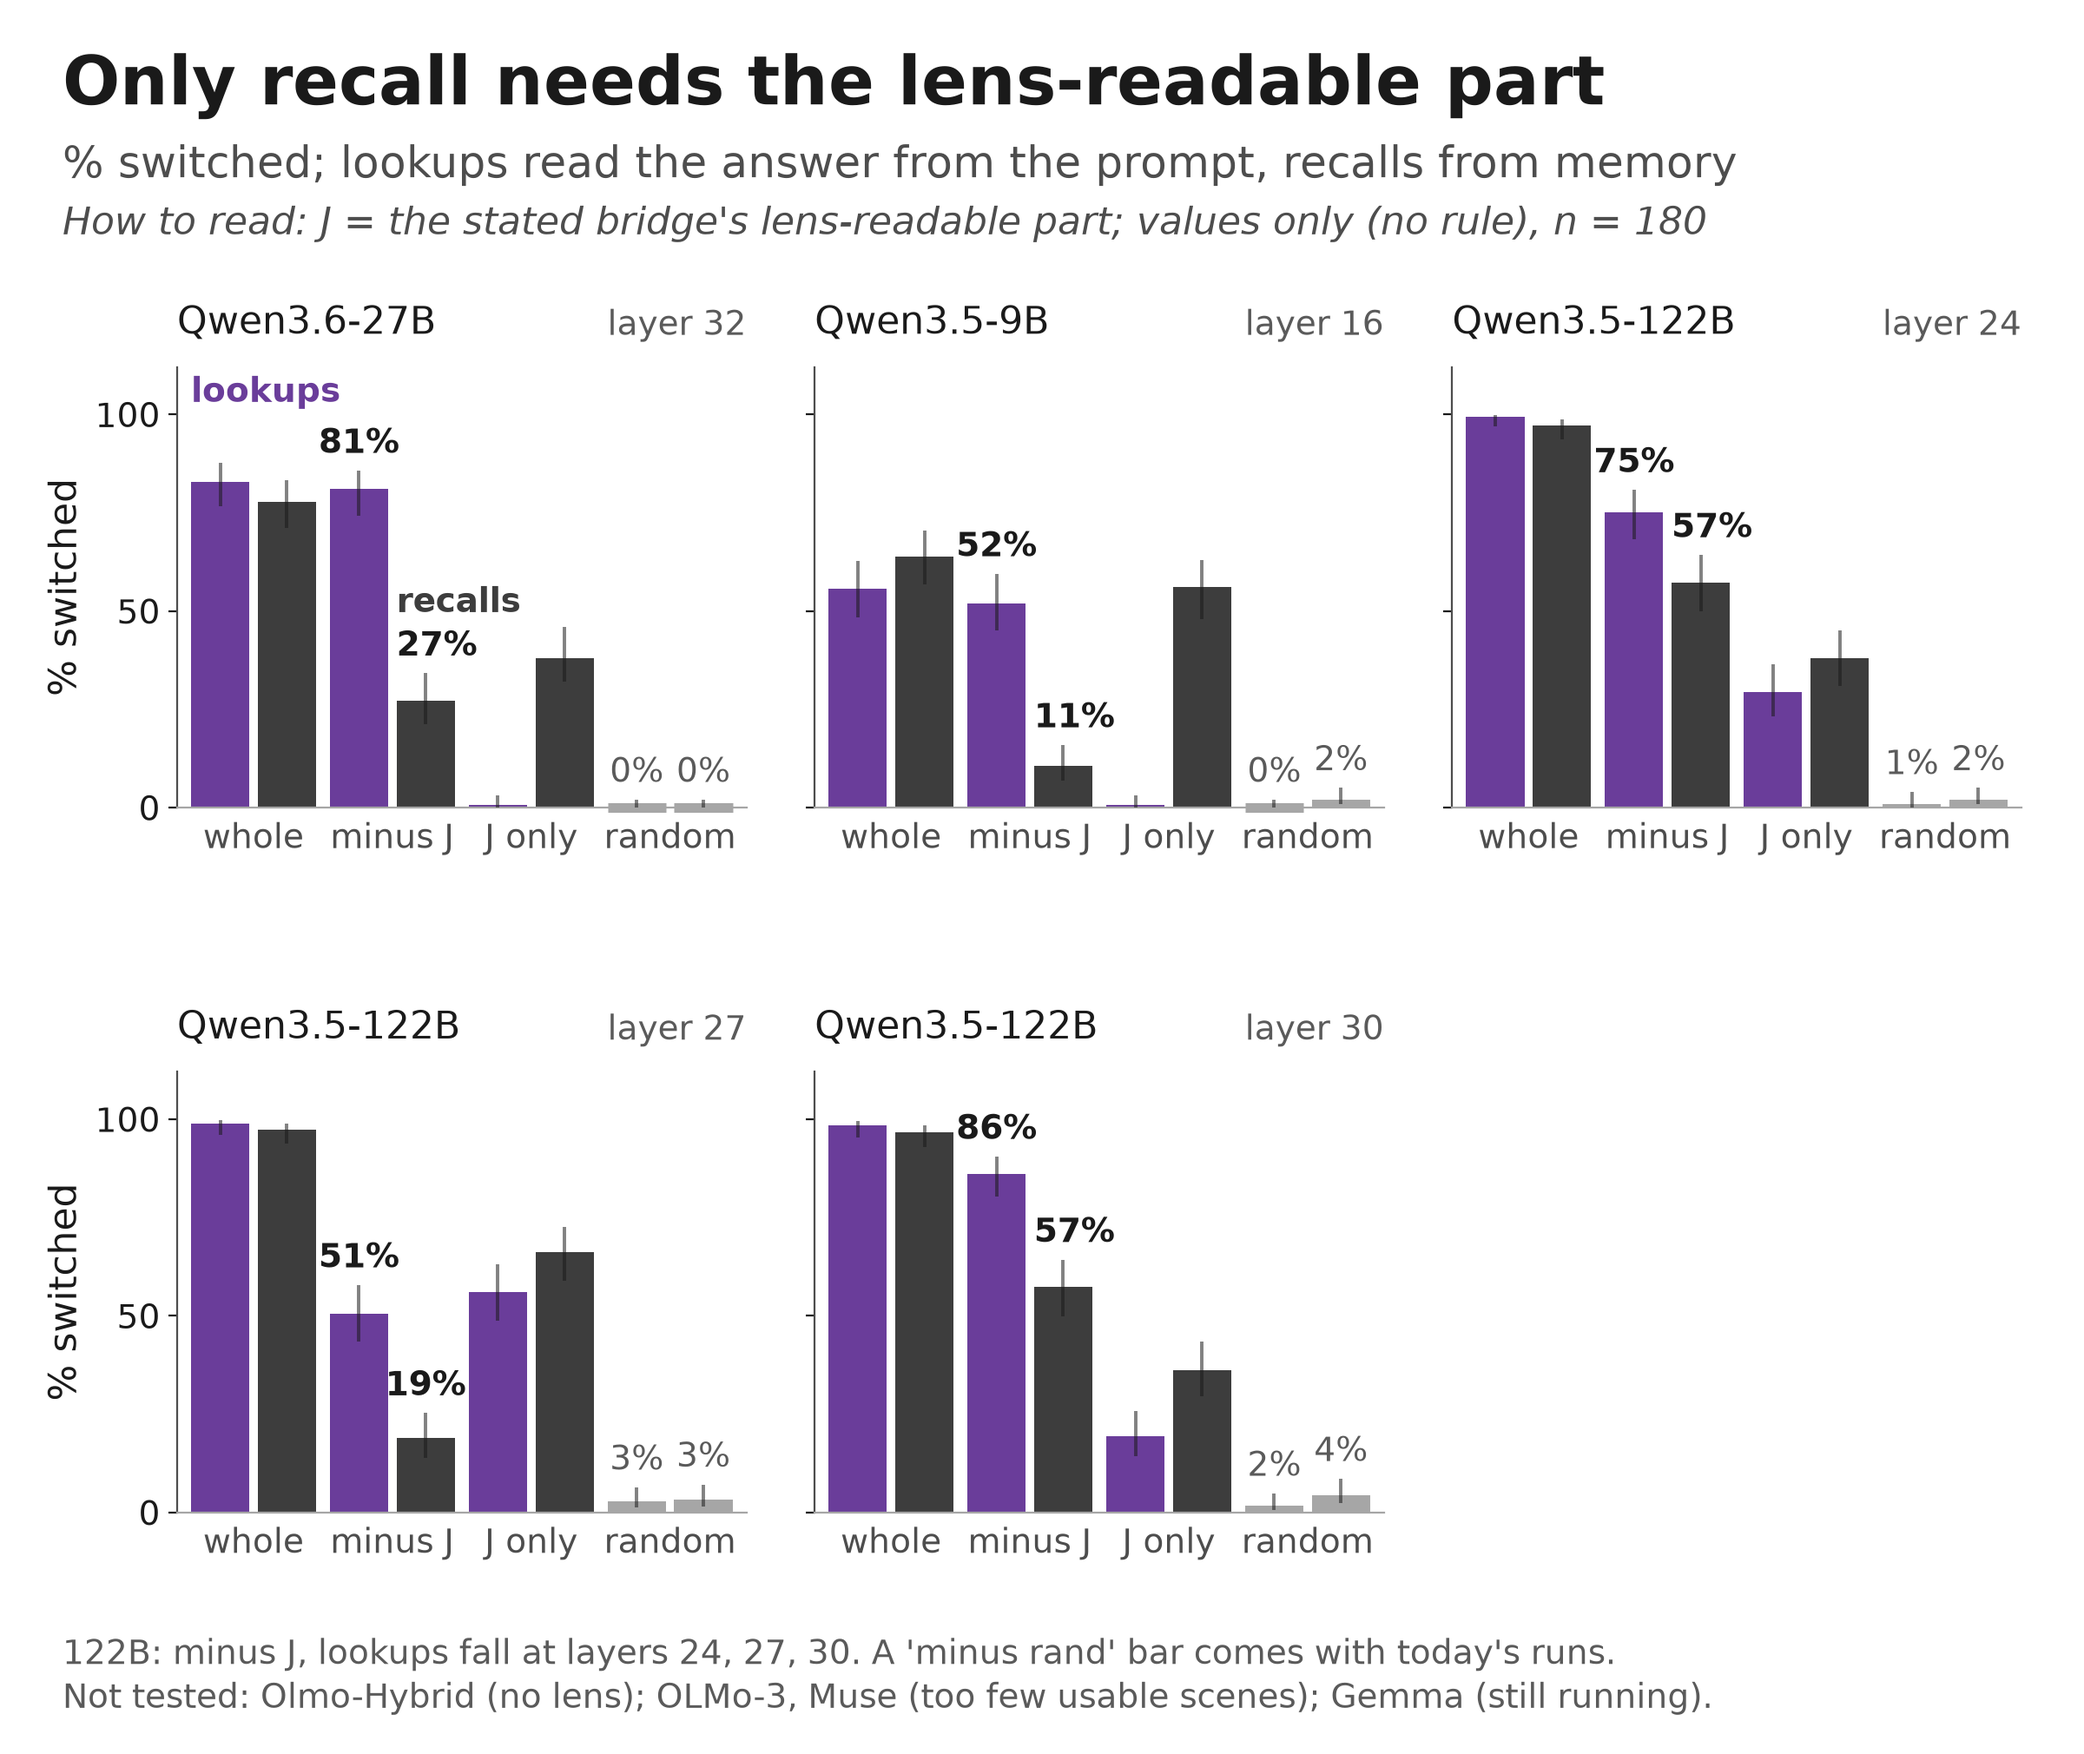
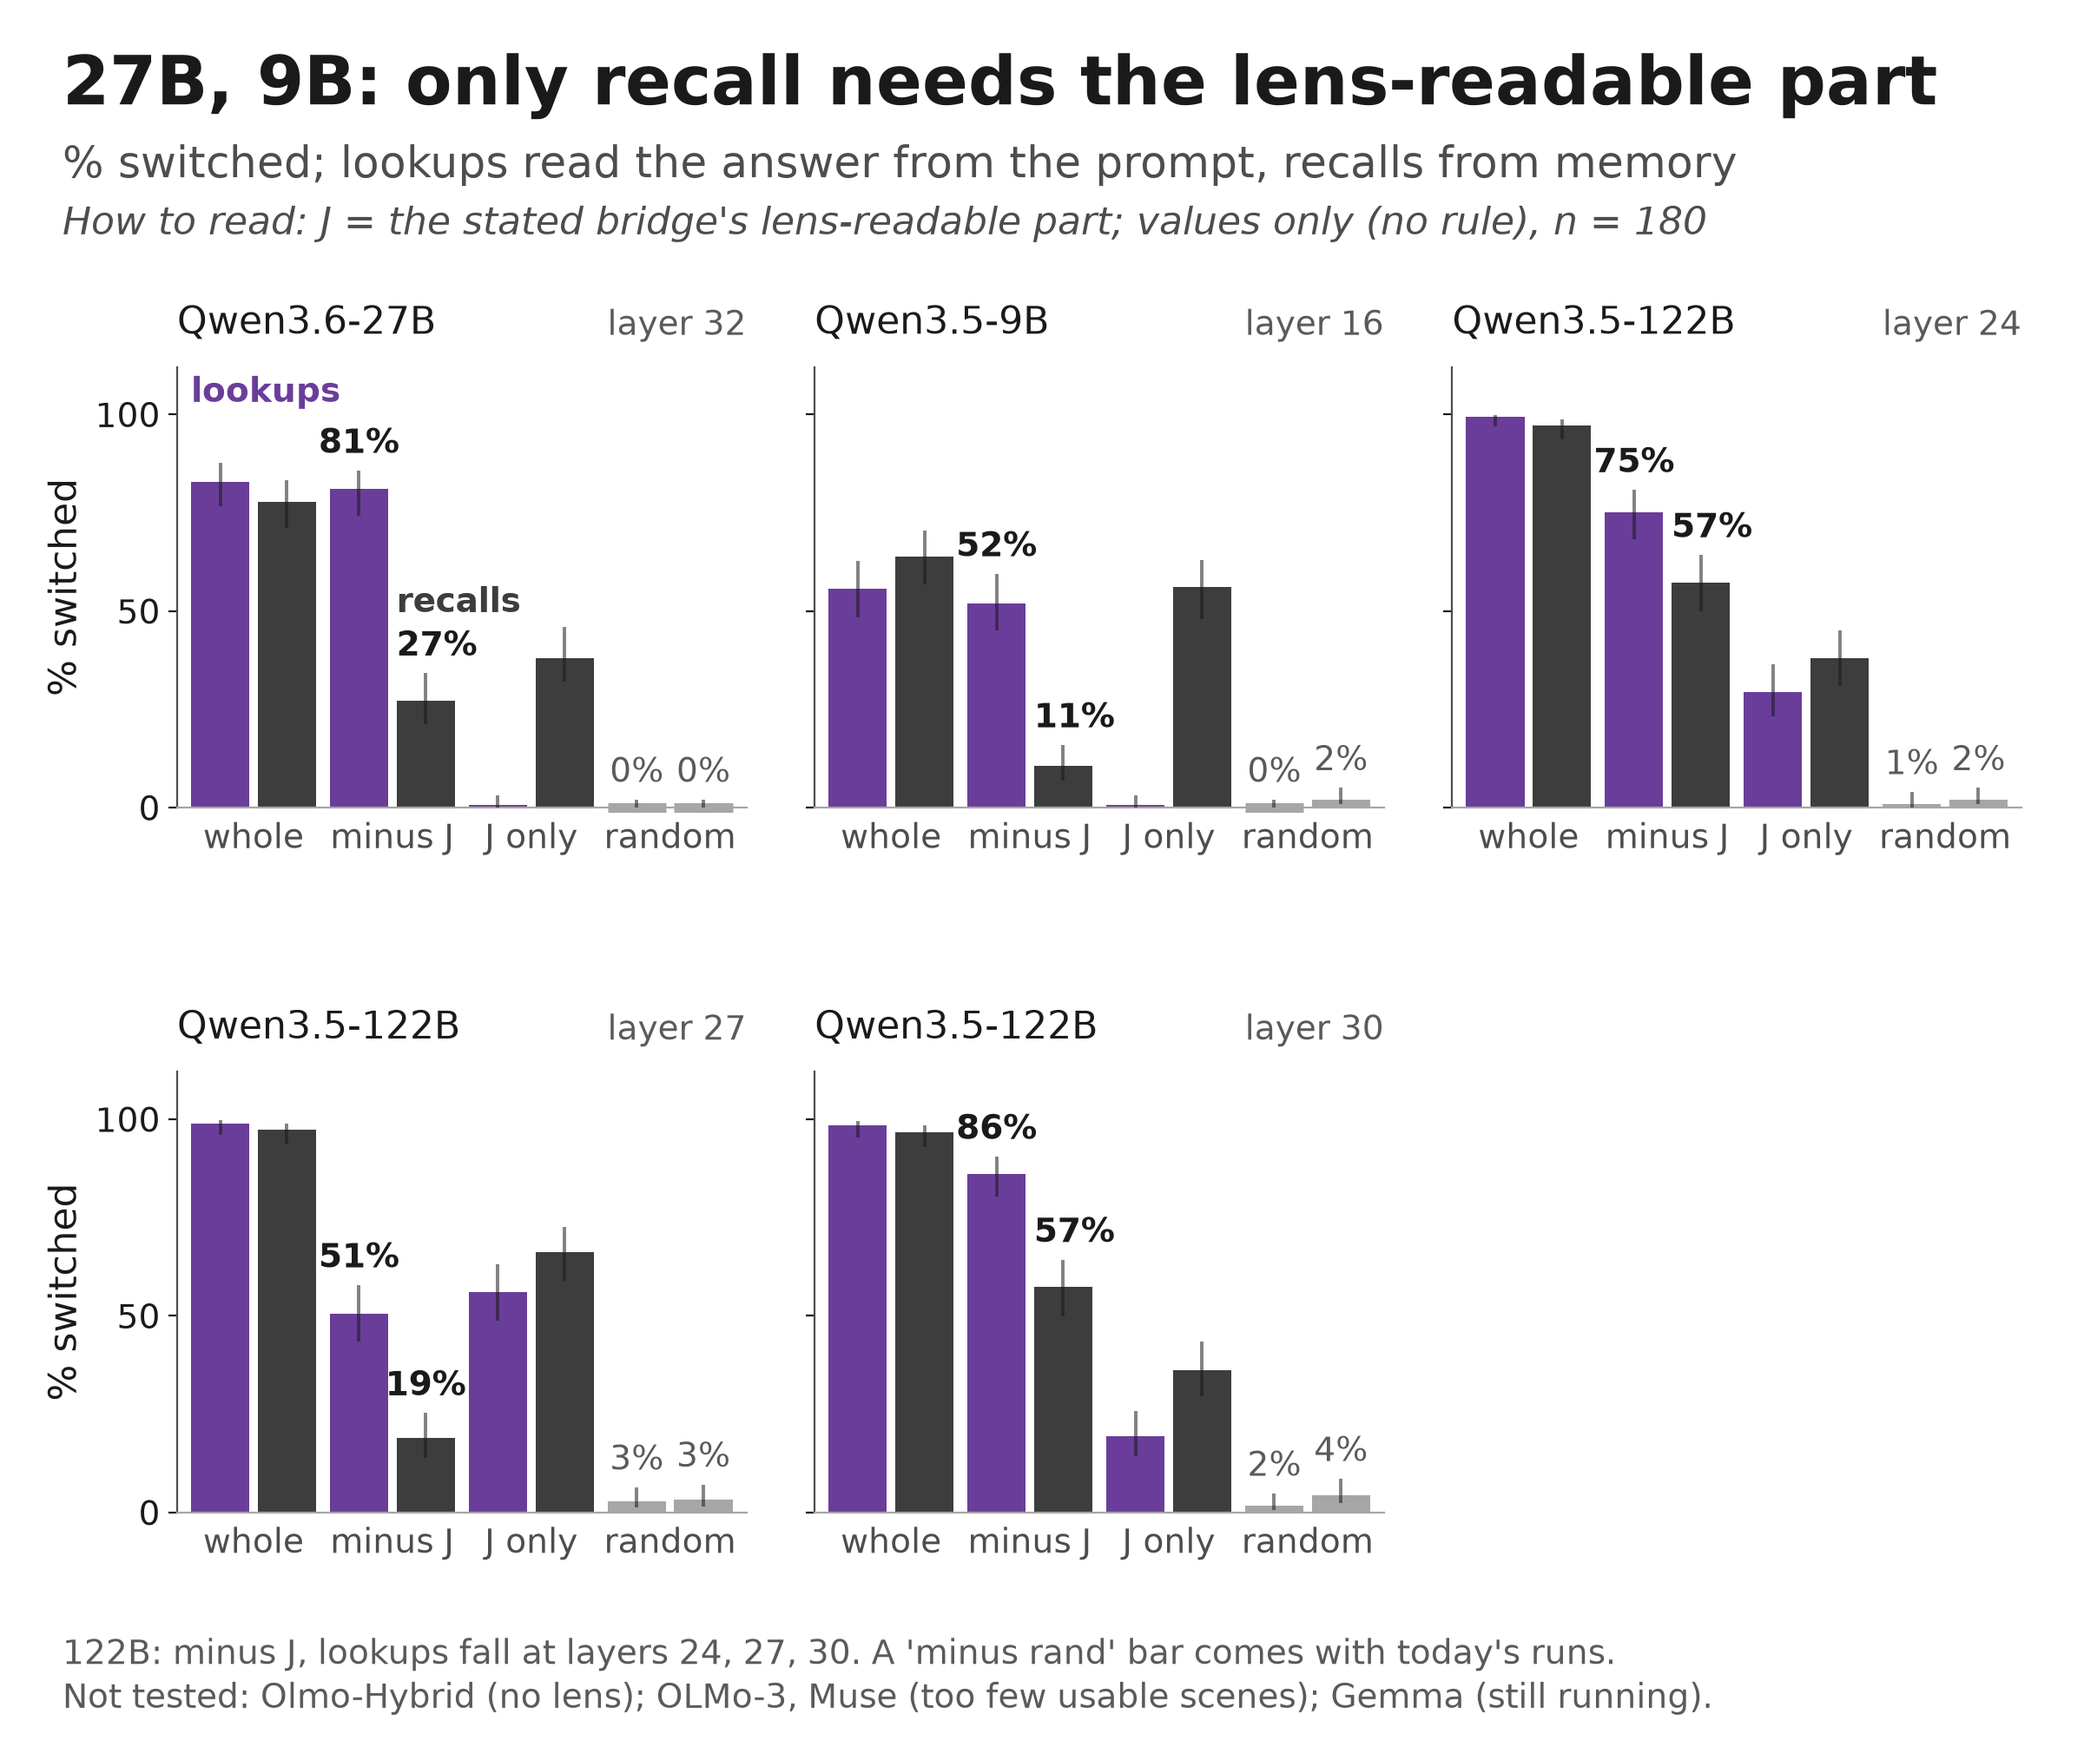
scripts/figs/necessity: the title scoped to the 27B and 9B (the 122B needs J too), grid 20261023T121807Z
"27B, 9B: only recall needs the lens-readable part" (the coordinator's short form; "On the 27B and 9B,
only recall needs the lens-readable part" does not fit the width at 28 pt). The 122B caption line kept.

Changed region(s): [[0.0312, 0.0312, 0.9375, 0.0624]]

diff --git a/scripts/figs/necessity.py b/scripts/figs/necessity.py
@@ -49,7 +49,7 @@ PARTS = (("full", "whole"), ("not_jspace", "minus J"), ("jspace", "J only"), ("n
 FAMILY = {"lookups": "PP", "recalls": "PM"}
 SP = G.RESULTS / "statement_positions"
 
-TITLE = "Only recall needs the lens-readable part"
+TITLE = "27B, 9B: only recall needs the lens-readable part"  # scoped: the 122B needs J too (caption)
 SUBTITLE = "% switched; lookups read the answer from the prompt, recalls from memory"
 HOW = "J = the stated bridge's lens-readable part; values only (no rule), n = {n}"
 
